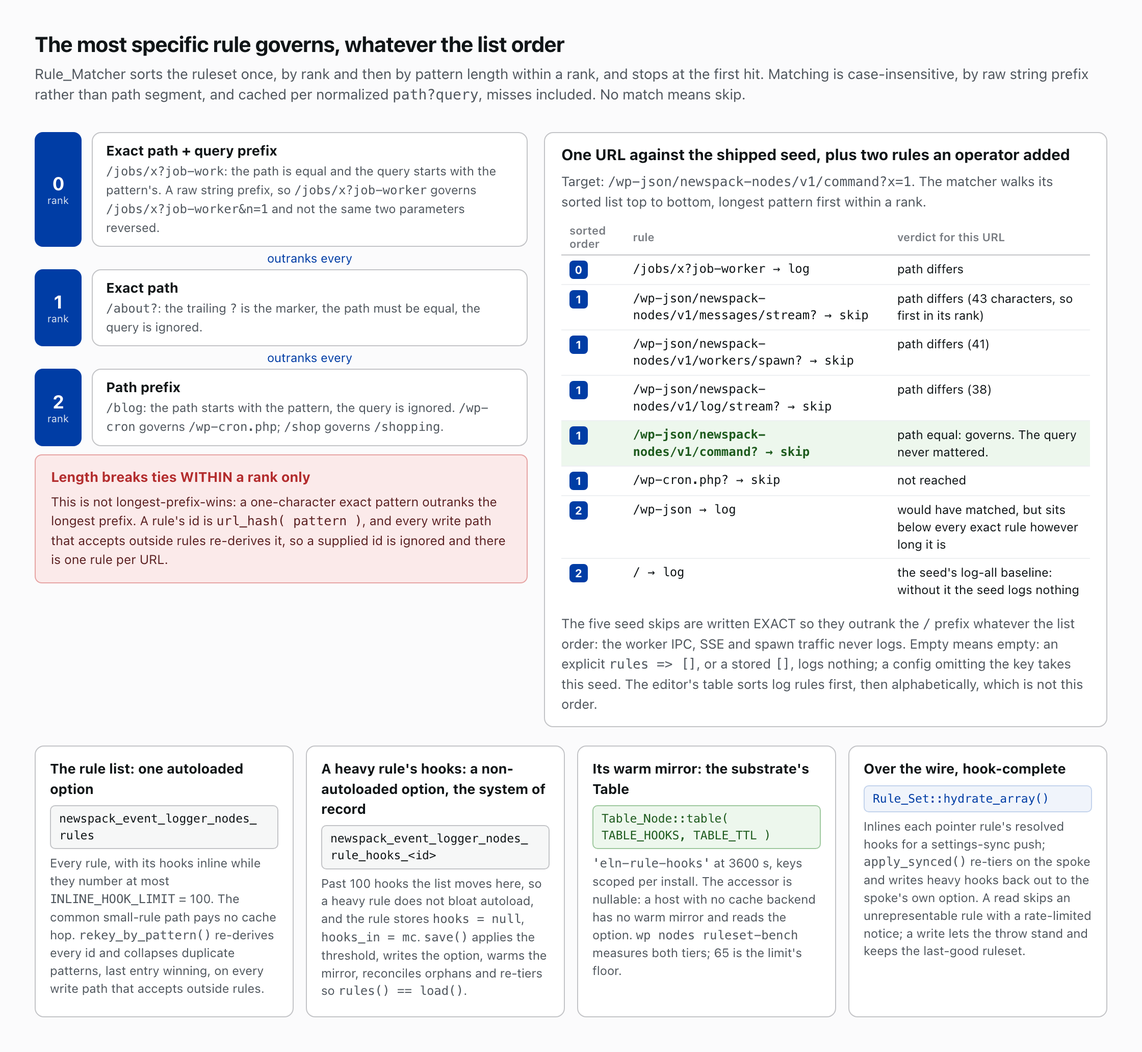
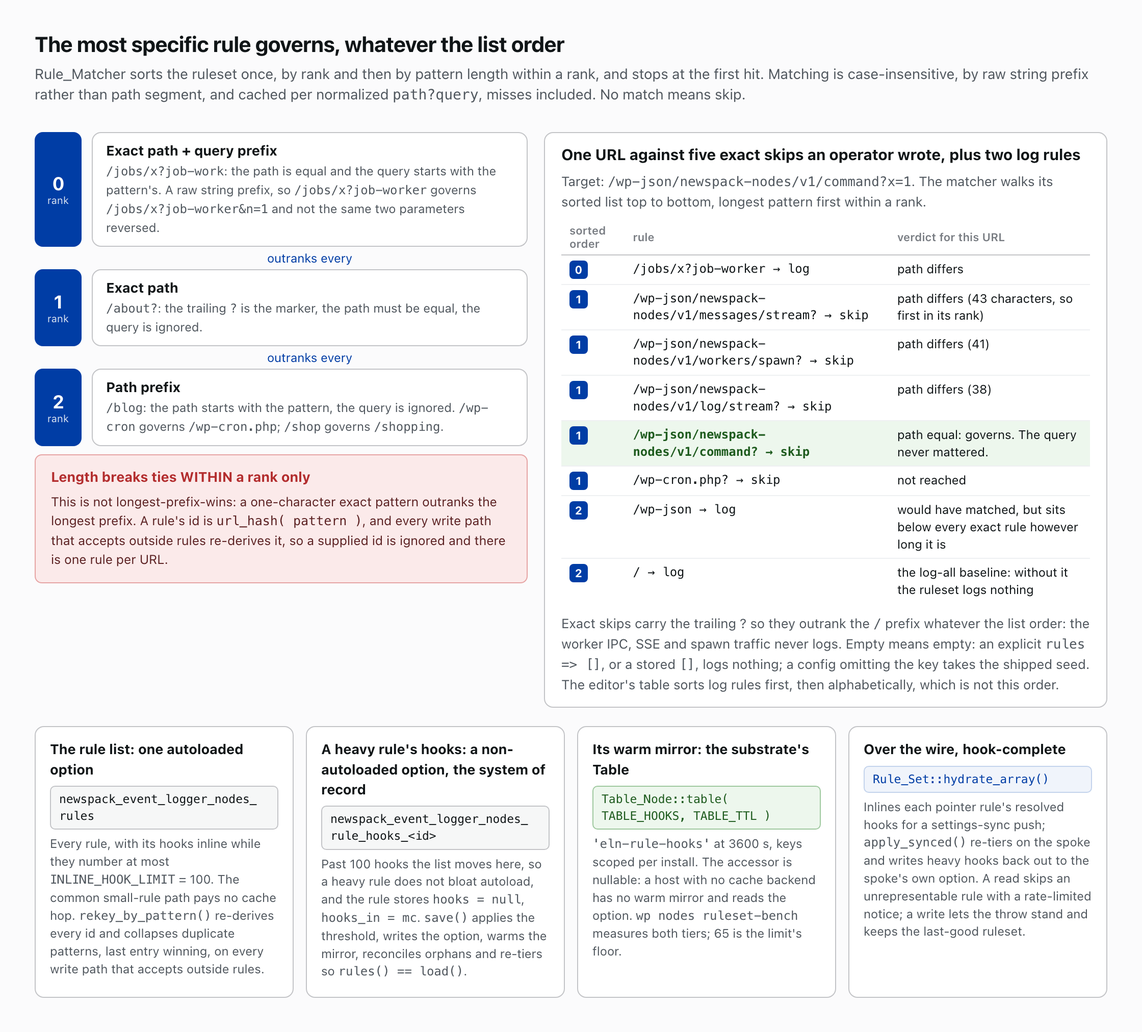
docs: the seed is the / rule alone and the allowlist is 32 keys
A worker partition that is not a number writes no entry rather than
partition 0. The rule-matching diagram walks an operator's exact skips,
not the seed, and the worker rows are described as off the URL table's
default rows and out of the global sums, which is what the code does.

diff --git a/docs/img/ag-rule-matching.html b/docs/img/ag-rule-matching.html
@@ -42,7 +42,7 @@ table.m td .r { display:inline-block; width:18px; height:18px; border-radius:4px
 
   <div class="worked">
     <div class="card" style="padding:12px 16px">
-      <h3>One URL against the shipped seed, plus two rules an operator added</h3>
+      <h3>One URL against five exact skips an operator wrote, plus two log rules</h3>
       <p style="margin:0">Target: <span class="mono">/wp-json/newspack-nodes/v1/command?x=1</span>. The matcher walks its sorted list top to bottom, longest pattern first within a rank.</p>
       <table class="m">
         <tr><th>sorted order</th><th>rule</th><th>verdict for this URL</th></tr>
@@ -53,9 +53,9 @@ table.m td .r { display:inline-block; width:18px; height:18px; border-radius:4px
         <tr class="win"><td><span class="r">1</span></td><td class="p">/wp-json/newspack-nodes/v1/command? → skip</td><td class="v">path equal: governs. The query never mattered.</td></tr>
         <tr><td><span class="r">1</span></td><td class="p">/wp-cron.php? → skip</td><td class="v">not reached</td></tr>
         <tr><td><span class="r">2</span></td><td class="p">/wp-json → log</td><td class="v">would have matched, but sits below every exact rule however long it is</td></tr>
-        <tr><td><span class="r">2</span></td><td class="p">/ → log</td><td class="v">the seed's log-all baseline: without it the seed logs nothing</td></tr>
+        <tr><td><span class="r">2</span></td><td class="p">/ → log</td><td class="v">the log-all baseline: without it the ruleset logs nothing</td></tr>
       </table>
-      <p style="margin:10px 0 0">The five seed skips are written EXACT so they outrank the <span class="mono">/</span> prefix whatever the list order: the worker IPC, SSE and spawn traffic never logs. Empty means empty: an explicit <span class="mono">rules =&gt; []</span>, or a stored <span class="mono">[]</span>, logs nothing; a config omitting the key takes this seed. The editor's table sorts log rules first, then alphabetically, which is not this order.</p>
+      <p style="margin:10px 0 0">Exact skips carry the trailing ? so they outrank the <span class="mono">/</span> prefix whatever the list order: the worker IPC, SSE and spawn traffic never logs. Empty means empty: an explicit <span class="mono">rules =&gt; []</span>, or a stored <span class="mono">[]</span>, logs nothing; a config omitting the key takes the shipped seed. The editor's table sorts log rules first, then alphabetically, which is not this order.</p>
     </div>
   </div>
 </div>

diff --git a/docs/img/2026-09-08-firehose-capture.html b/docs/img/2026-09-08-firehose-capture.html
@@ -10,7 +10,7 @@
       <p><strong>URL query string</strong> — a denylist matching the SHAPE of a parameter name: a name containing a credential token, or carrying one as a whole segment. A parity check holds both writers to the same pattern, applied in the same place.</p>
       <p><strong>Hook arguments</strong> — every key kept, every value replaced by <span class="mono">?</span> unless its key is one of 104 allowed names.</p>
       <p><strong>SQL</strong> — every quoted literal becomes <span class="mono">?</span>.</p>
-      <p>One entry per request, <span class="mono">environment_v3</span>, is a map of 34 server variables: <span class="mono red">REMOTE_ADDR</span>, <span class="mono red">HTTP_USER_AGENT</span>, <span class="mono red">HTTP_X_FORWARDED_FOR</span>, the JA3 and JA4 fingerprints.</p>
+      <p>One entry per request, <span class="mono">environment_v3</span>, is a map of 32 server variables: <span class="mono red">REMOTE_ADDR</span>, <span class="mono red">HTTP_USER_AGENT</span>, <span class="mono red">HTTP_X_FORWARDED_FOR</span>, the JA3 and JA4 fingerprints.</p>
       <p style="margin:0">Each entry is capped at 3,840 bytes so the append stays atomic.</p>
       <div class="chip mono blue" style="margin:12px 0 0;text-align:center">firehose.p0</div>
     </div>

diff --git a/includes/class-log-manager.php b/includes/class-log-manager.php
@@ -1199,10 +1199,11 @@ class Log_Manager {
 			return;
 		}
 		$this->message( self::WORKER_TYPE, [ 'm' => $worker_type ] );
-		if ( isset( $_SERVER['NEWSPACK_NODES_WORKER_PARTITION'] ) ) {
-			// phpcs:ignore WordPress.Security.ValidatedSanitizedInput.InputNotSanitized -- Sanitized on the same line.
-			$partition = \sanitize_text_field( Core::as_string( $_SERVER['NEWSPACK_NODES_WORKER_PARTITION'] ) );
-			$this->message( self::WORKER_PARTITION, [ 'm' => Core::num_int( $partition ) ] );
+		// phpcs:ignore WordPress.Security.ValidatedSanitizedInput.InputNotSanitized -- Sanitized on the same line.
+		$partition = \sanitize_text_field( Core::as_string( $_SERVER['NEWSPACK_NODES_WORKER_PARTITION'] ?? '' ) );
+		// A value that is not a number names no partition; write nothing.
+		if ( \is_numeric( $partition ) ) {
+			$this->message( self::WORKER_PARTITION, [ 'm' => (int) $partition ] );
 		}
 	}
 

diff --git a/newspack-event-logger-nodes-config.php b/newspack-event-logger-nodes-config.php
@@ -53,7 +53,8 @@ return [
 	// option again.
 	// The platform's own requests to itself — the cron loopback and the
 	// substrate's endpoints — need no skip: `Log_Manager` names each as a
-	// worker, and the URL table keeps worker traffic off its default rows.
+	// worker, and worker traffic stays off the URL table's default rows and
+	// out of the global sums.
 	// No match means skip, and empty means empty: drop the `/` rule and the
 	// site logs nothing. A `log` rule may also carry hook lists, custom and
 	// significant event names, the two auto-tune thresholds, and the query,

diff --git a/includes/class-settings-schema.php b/includes/class-settings-schema.php
@@ -63,8 +63,8 @@ class Settings_Schema {
 	 *
 	 * The platform's own requests to itself — the cron loopback and the
 	 * substrate's endpoints — need no skip: `Log_Manager` names each as a
-	 * worker, and worker traffic sits behind the dashboards' Include Workers
-	 * toggle.
+	 * worker, and worker traffic stays off the URL table's default rows and
+	 * out of the global sums.
 	 *
 	 * No match means skip, and empty means empty: drop the `/` rule and the
 	 * site logs nothing. A `log` rule may also carry hook lists, custom and

diff --git a/AGENTS.md b/AGENTS.md
@@ -227,7 +227,7 @@ Each is intentional, stated in full in [`docs/architecture-decisions.md`](docs/a
 Mistakes that have actually happened.
 
 - **`@wordpress/*` is pinned to the `wp-7.0` dist tag — never bump it to close an advisory.** Each runtime package is declared exactly, no caret, and `scripts/lint-wp-pin.mjs` fails the push when a declaration carries a range or the lock resolves it elsewhere. A caret let every lock climb to trunk while the declaration still read as the tag, and `npm ci` built against the climb. Transitive `@wordpress/*` packages still float within the ranges the family's own manifests declare; the build externalizes those too. Every declared runtime version IS its `wp-7.0` tag (`components 32.2.1`, `element 6.40.1`, `i18n 6.13.1`, `api-fetch 7.40.1`, `icons 11.7.1`). The build externalises four of the five to the `wp.*` globals, so npm's copy never ships — raising it delivers no new code, it moves the API you compile, lint and type-check against AHEAD of the one the browser is handed. A component changed or removed between majors then builds clean, passes eslint and jest, and breaks at runtime, with nothing mechanical to catch it. `@wordpress/icons` is the exception: WordPress registers no `wp-icons` handle, so the build kit's `WP_EXTERNALS` map omits it deliberately and the one icon `src/settings/settings/TagInputField.js` imports is bundled — a bump there does change what ships. Check `npm view @wordpress/<pkg> dist-tags --json` against `wp core version` before proposing any bump, and move the whole family together only when the WordPress target itself moves. A Dependabot advisory reachable only PAST the pin gets dismissed, not bumped: 2026-08-17, uuid GHSA-w5hq-g745-h8pq needed `components >= 33.1.0`, one major past `wp-7.0`, for a package absent from `build/` entirely — dismissed `not_used`. npm `overrides` cannot rescue that, because npm matches an override by package NAME anywhere in the tree: both `{uuid: …}` and the nested `{"@wordpress/components": {uuid: …}}` reach the copy the pinned component library legitimately depends on — `uuid@^9.0.1`, the one uuid in this lock — and swap it out from under it.
-- **There is no global logging or auto-tune option; logging is per-URL-rule.** No config key named `log_urls`, `skip_urls`, `log_events`, `custom_events`, `significant_events`, `auto_disable_threshold` or `auto_protect_time_threshold` is declared or read: the last four name per-rule fields of `Rule`, and the first three have no counterpart at all. Each rule is a URL pattern (`/prefix` or exact `/x?`) with a `log`/`skip` action and, for `log` rules, its own hooks, custom events, significant events, two auto-tune thresholds and five diagnostic knobs — `log_http` and `log_plugin_loads` (default on), `log_queries`, `trace_hooks` and `trace_callers` (all default off). Matching ranks query-bearing patterns (`/jobs/x?job-work`) above ALL exact patterns, which rank above ALL prefixes — length only breaks ties within a rank, so this is NOT longest-prefix-wins. Case-insensitive; **no match means skip, and empty means empty — there is no implicit log-all baseline.** Declare a `/` log rule to log everything, as the shipped seed does alongside five exact skips: the substrate's `command`, `log/stream`, `messages/stream` and `workers/spawn` routes, and `/wp-cron.php`. Rule id = the pattern's `Log_Manager::url_hash()`. Discovery only *stages* what spokes report, into the non-autoloaded `discovered_hooks` and `discovered_events` options the editor's pickers read; the editor is the only rule writer.
+- **There is no global logging or auto-tune option; logging is per-URL-rule.** No config key named `log_urls`, `skip_urls`, `log_events`, `custom_events`, `significant_events`, `auto_disable_threshold` or `auto_protect_time_threshold` is declared or read: the last four name per-rule fields of `Rule`, and the first three have no counterpart at all. Each rule is a URL pattern (`/prefix` or exact `/x?`) with a `log`/`skip` action and, for `log` rules, its own hooks, custom events, significant events, two auto-tune thresholds and five diagnostic knobs — `log_http` and `log_plugin_loads` (default on), `log_queries`, `trace_hooks` and `trace_callers` (all default off). Matching ranks query-bearing patterns (`/jobs/x?job-work`) above ALL exact patterns, which rank above ALL prefixes — length only breaks ties within a rank, so this is NOT longest-prefix-wins. Case-insensitive; **no match means skip, and empty means empty — there is no implicit log-all baseline.** Declare a `/` log rule to log everything, as the shipped seed does which is the whole seed: the substrate's `command`, `log/stream`, `messages/stream` and `workers/spawn` routes and `/wp-cron.php` need no skip, because `Log_Manager` names each as a worker. Rule id = the pattern's `Log_Manager::url_hash()`. Discovery only *stages* what spokes report, into the non-autoloaded `discovered_hooks` and `discovered_events` options the editor's pickers read; the editor is the only rule writer.
 - **There is no operator hub toggle: no `enable_workers`, no `enable_aggregator`.** `tests/unit/RetiredConfigKeysTest.php` guards both names against reintroduction. Hub-mode derives from whether `aggregator` is in the substrate's `topologies` list. Settings fan-out is structurally ungated: without `hub-control` active and per-spoke `HTTP_Out` nodes wired, a recorded settings event is tailed and dropped.
 - **Two bounds, and BOTH fold.** Both are `Request_Builder_Node` node arguments declared in its `node_schema()` and parsed by `parse_schema_args()`, not config keys — `make_node Request_Builder request-builder <bucket_size> <num_buckets> <entry_budget> <max_entries_per_request>`, and the shipped topology passes only the first two. `entry_budget` constrains the SUM of entries across everything in flight (what a staging site ran out of) and folds the largest envelope when crossed; `max_entries_per_request` constrains ONE envelope and folds that one, a faster trigger for a single runaway than waiting for the next pressure check. A cap that merely stops appending and sets a `truncated` flag nothing surfaces loses every entry past it — never build that. A folded record ships `flame` + `folded` plus its kept head and tail rejoined around an `entries (aggregated)` marker; `Flame_Builder_Node` and the detail view read the folded and the unfolded shape alike, because both sit on disk.
 - **PIPE_BUF (4096 bytes) for firehose writes.** `Log_Manager::message()` builds the whole entry — `n`, `k`, the caller's data and `ts` — and enforces `MAX_DATA_SIZE = 3840` on THAT encoding, which is the headroom that keeps a lock-free append atomic. The three stamped keys are why the ENTRY is what gets fitted rather than `$data`: a payload sitting exactly at the cap on its own goes over budget the moment `n`, `k` and `ts` land, and the gap left under PIPE_BUF is then the Message envelope's alone. Over the cap, `fit_data()` trims a string `m` progressively — from the cap down 10% a step, re-encoding each time, because JSON escaping expands bytes — and drops `m` outright when trimming cannot fit it or when it is an array. The entry is marked `truncated => true`, and every other key survives, `l` and `caller` included, so the flame still merges the span under its `l` label and the request record keeps its caller summary. What opens a span is the category `k` alone — `Flame_Tree::PATTERN_START` and `Request_Builder_Node`'s `' (start)'` suffix test both read it — so **the category is NOT renamed**: a `" (truncated)"` suffix breaks both tests, the span never opens and its `(complete)` orphans. The floor case, where the other keys alone exceed the cap, keeps `n`, `k`, `ts` and `truncated` and carries a 1000-byte slice of the oversized encoding as `m` — strip those three and no reader can place the line. Nothing is chunked and nothing is logged to `error_log` — the entry says so itself. A firehose entry has no escape, because every request process appends that log with no lock: shape a large value at the producer or split it across entries. A partition with one writer lifts its cap to 32 MiB, by a held lock (`allow_large_writes()`, which is how `\Newspack_Nodes\Job_Intake::queue()` admits a large job) or by the `void_warranty` assertion the `requests` and `flames` partitions carry.

diff --git a/.claude/skills/event-logger-nodes-review/SKILL.md b/.claude/skills/event-logger-nodes-review/SKILL.md
@@ -32,7 +32,7 @@ A new producer of potentially-large jobs routed through `Log_Manager` is broken:
 
 | Value | What must match |
 |---|---|
-| `ENV_ALLOWLIST` | 34 `$_SERVER` keys, membership AND order |
+| `ENV_ALLOWLIST` | 32 `$_SERVER` keys, membership AND order |
 | `ENV_VALUE_MAX` | 256 bytes per value |
 | The elision marker `log_environment()` appends to a capped value | U+2026 on both sides |
 | `URL_REDACT_PATTERN` | 21 redacted query parameters |
@@ -173,7 +173,7 @@ Logging is governed per URL by a **ruleset**: an ordered list of `Rule`s, each a
 - **Matching is by SPECIFICITY, not longest prefix.** Query-bearing patterns (`/jobs/x?job-work`) outrank ALL exact patterns (`/about?`), which outrank ALL prefixes (`/blog`); length only breaks ties within a rank. Comparison is case-insensitive, and a prefix matches by string rather than path segment, so `/wp-cron` governs `/wp-cron.php`. A diff reordering the list to change an outcome misreads the matcher — list order never sways it.
 - **Every write goes through `Rule_Set::save()`** — never a raw `update_option` on `newspack_event_logger_nodes_rules`. `save()` maintains the inline↔pointer hook tiering (`INLINE_HOOK_LIMIT` = 100, the crossover `wp nodes ruleset-bench` measures; a heavier list tiers to a non-autoloaded per-rule option mirrored into the substrate `Table`) and the orphan reconcile. Bypassing it corrupts the two-tier storage. `Rule_Set::reset()` is the one path that does not save: it DELETES the option so the schema seed governs again, reconciles the orphans and signals the worker reloads itself.
 - **A rule's id is `Rule_Set::id_for( $pattern )`**, the pattern's `Log_Manager::url_hash()` — one id per pattern, and a client-supplied id is ignored. Positional id minting (`generate_rule_id`, `gen_id`) breaks that, and so does letting two rules share one pattern.
-- **Empty means empty.** There is no implicit `/` log-all baseline; an empty or absent ruleset logs nothing. A diff synthesizing a minimal `/` rule makes that impossible to express. A deployment wanting log-all declares a `/` log rule explicitly, as `Settings_Schema`'s seed does alongside five exact skips: the substrate's `command`, `log/stream`, `messages/stream` and `workers/spawn` routes, and `/wp-cron.php`.
+- **Empty means empty.** There is no implicit `/` log-all baseline; an empty or absent ruleset logs nothing. A diff synthesizing a minimal `/` rule makes that impossible to express. A deployment wanting log-all declares a `/` log rule explicitly, as `Settings_Schema`'s seed does which is the whole seed: the substrate's `command`, `log/stream`, `messages/stream` and `workers/spawn` routes and `/wp-cron.php` need no skip, because `Log_Manager` names each as a worker.
 - **Seven names are retired as globals, and `RetiredConfigKeysTest` guards all seven.** Declaring `log_urls`, `skip_urls`, `log_events`, `custom_events`, `significant_events`, `auto_disable_threshold` or `auto_protect_time_threshold` as a `Settings_Schema` Field or an option row puts one answer where the ruleset gives a URL its own. Four are `Rule` properties: `custom_events`, `significant_events`, `auto_disable_threshold` and `auto_protect_time_threshold`. The other three have no per-rule counterpart either — the pattern replaces `log_urls` and `skip_urls`, and the rule's `hooks` list replaces `log_events`. (`enable_logging`, `log_memory` and `flush_every_line` stay global, and so does `hook_start_priority`; `allowed_users` is the substrate's.)
 - **Discovery stages hooks, it does not write rules.** `Discovery_Collector_Node` stages spoke-reported names into the non-autoloaded `discovered_hooks` and `discovered_events` options, surfaced in the editor's picker; it never writes a rule. Three callers do, and every one goes through `save()`: the `rules` `save` / `upsert` / `delete` verbs, `Auto_Tuner_Node`, and `Rule_Set::apply_synced()` on the settings-sync receive path. A diff having discovery union-merge into a `/` rule and save the ruleset breaks "empty means empty".
 - **`upsert` drops by id OR by pattern, then appends under the pattern-derived id.** `Rules_CI_Node::upsert` removes the entry whose `id` matches the incoming rule's — an edit that renames the pattern carries its OLD id, so the stale entry goes with it — and the entry whose pattern matches, which is the id-less "Log this URL" add. Collapsing that to pattern-only orphans every renamed rule.

diff --git a/docs/architecture-guide.md b/docs/architecture-guide.md
@@ -180,9 +180,9 @@ The constructor throws when the pattern is empty, and when `hooks` and `hooks_in
 
 **`Rule_Matcher`** ([`includes/class-rule-matcher.php`](../includes/class-rule-matcher.php)) picks the governing rule by specificity, not by list order, and **`Rule_Set`** ([`includes/class-rule-set.php`](../includes/class-rule-set.php)) is the durable store.
 
-![Rule matching and storage: three ranks, exact path plus query prefix over exact path over path prefix, with length breaking ties only within a rank; a worked walk of /wp-json/newspack-nodes/v1/command?x=1 down the sorted seed ruleset, where the exact skip governs and the /wp-json and / log rules sit below every exact rule; and the four storage tiers, the autoloaded rule list, a heavy rule's non-autoloaded hooks option past INLINE_HOOK_LIMIT 100, its Table mirror eln-rule-hooks at TTL 3600, and hydrate_array() for the wire.](img/ag-rule-matching.png)
+![Rule matching and storage: three ranks, exact path plus query prefix over exact path over path prefix, with length breaking ties only within a rank; a worked walk of /wp-json/newspack-nodes/v1/command?x=1 down a sorted ruleset of exact skips an operator wrote, where the exact skip governs and the /wp-json and / log rules sit below every exact rule; and the four storage tiers, the autoloaded rule list, a heavy rule's non-autoloaded hooks option past INLINE_HOOK_LIMIT 100, its Table mirror eln-rule-hooks at TTL 3600, and hydrate_array() for the wire.](img/ag-rule-matching.png)
 
-Patterns are written as site paths, so a caller holding an absolute URL passes its path. The shipped default, [`Settings_Schema`](../includes/class-settings-schema.php)'s `rules`, which `Rule_Set::seed_from_config()` applies until the editor writes the option, is the `/` LOG rule plus the five EXACT skips for `/wp-json/newspack-nodes/v1/{command,log/stream,messages/stream,workers/spawn}` and `/wp-cron.php`.
+Patterns are written as site paths, so a caller holding an absolute URL passes its path. The shipped default, [`Settings_Schema`](../includes/class-settings-schema.php)'s `rules`, which `Rule_Set::seed_from_config()` applies until the editor writes the option, is the `/` LOG rule alone; `/wp-json/newspack-nodes/v1/{command,log/stream,messages/stream,workers/spawn}` and `/wp-cron.php` need no skip, because `Log_Manager` names each as a worker.
 
 **Loading.** When the option is absent, `Rule_Set::load()` builds the ruleset through `seed_from_config()`, without persisting it, until the editor first writes the option. The seed reads `Config::load_config_defaults()`, the layers beneath the option: `Settings_Schema`'s seed, then the shipped config file and `LOCAL_NEWSPACK_NODES_CONF`. A config that omits the key therefore takes the schema's seed. Empty means empty: an explicit `rules => []` in the config, like a stored `[]`, yields a zero-rule set, which logs nothing. A CORRUPT option, one that is not an array, takes the same seed as an absent one: `load()` reports it to stderr as `Newspack ELN: rules option holds type <type>, not an array; seeding from the config file and schema default.` and seeds from those layers, never from the corrupt value the option overlay would hand back. Both read paths skip an unrepresentable rule with a rate-limited notice rather than throwing — one hand-edited option must not fatal every request that resolves a rule — while a WRITE caller lets the throw stand and rejects the whole push, leaving the last-good ruleset in place.
 

diff --git a/docs/security-model.md b/docs/security-model.md
@@ -48,7 +48,7 @@ The request id groups a request's firehose lines, and no request header is ever 
 
 **Code:** [`includes/app/class-ask-assembler.php`](../includes/app/class-ask-assembler.php): [`entry_shape()`](../includes/app/class-ask-assembler.php#L373), [`for_request()`](../includes/app/class-ask-assembler.php#L82), [`ENV_ALLOWLIST`](../includes/app/class-ask-assembler.php#L73); [`includes/app/class-performance-ci-node.php`](../includes/app/class-performance-ci-node.php): `ask_request()`; [`includes/app/class-mcp-controller.php`](../includes/app/class-mcp-controller.php): [`INSTRUCTIONS`](../includes/app/class-mcp-controller.php#L79), [`fence()`](../includes/app/class-mcp-controller.php#L309); [`src/overview/askBrief.js`](../src/overview/askBrief.js): [`siteData()`](../src/overview/askBrief.js#L43), the `entry:` case ([305](../src/overview/askBrief.js#L305)) and [`askClaudeUrl()`](../src/overview/askBrief.js#L67).
 
-An Ask brief summarizes one request, URL or log entry for pasting into an AI assistant. Its `env` field passes a six-key allowlist (`method`, `request_method`, `status_code`, `worker_type`, `partition`, `server_name`). Its `entries` field holds the same line: `for_request()` copies up to `MAX_ENTRIES` (60) entries through `entry_shape()`, and the `environment_v3` entry — the curated map of 34 server variables, the visitor's headers among them — ships with its category and no body, so the user agent, the referer, the forwarded-for chain and the JA3 and JA4 TLS fingerprints never reach a brief. Every other entry's `m` is copied verbatim. This bounds the brief alone: `dump_request` ships the record whole, inside the MCP fence. The brief leaves by three doors — the `performance_ask` MCP tool, a single-entry brief rendered in full, and the "Ask Claude" query string — and at each of them the values a log record wrote leave inside a `<site-data>` fence ([decision 25](architecture-decisions.md#decision-25-read-tools-and-tune-scoped-write-tools-share-one-mcp-session-and-every-tool-result-is-fenced)). [The environment allowlist](architecture-guide.md#the-environment-allowlist) covers what the writer admits into `environment_v3`.
+An Ask brief summarizes one request, URL or log entry for pasting into an AI assistant. Its `env` field passes a six-key allowlist (`method`, `request_method`, `status_code`, `worker_type`, `partition`, `server_name`). Its `entries` field holds the same line: `for_request()` copies up to `MAX_ENTRIES` (60) entries through `entry_shape()`, and the `environment_v3` entry — the curated map of 32 server variables, the visitor's headers among them — ships with its category and no body, so the user agent, the referer, the forwarded-for chain and the JA3 and JA4 TLS fingerprints never reach a brief. Every other entry's `m` is copied verbatim. This bounds the brief alone: `dump_request` ships the record whole, inside the MCP fence. The brief leaves by three doors — the `performance_ask` MCP tool, a single-entry brief rendered in full, and the "Ask Claude" query string — and at each of them the values a log record wrote leave inside a `<site-data>` fence ([decision 25](architecture-decisions.md#decision-25-read-tools-and-tune-scoped-write-tools-share-one-mcp-session-and-every-tool-result-is-fenced)). [The environment allowlist](architecture-guide.md#the-environment-allowlist) covers what the writer admits into `environment_v3`.
 
 ## The remote-job rewrite
 

diff --git a/.claude/skills/event-logger-nodes-debugging/SKILL.md b/.claude/skills/event-logger-nodes-debugging/SKILL.md
@@ -259,7 +259,7 @@ If a hub is missing entries from a spoke, read that `remote:` snapshot — but r
 
 **The URL modal's "The request index scan stopped early" banner will not clear.** `UrlDetailMergeNode` treats `scan_stopped_early` as a property of the accumulated request list rather than of the latest reply: `_merge()` forces the flag back ON whenever the retained payload carries it and never forces it off, because a walk that ran out of budget left rows missing from the accumulation and a later complete walk does not put them back. Only the `clear` control drops the note, with the list it described, and `usePerformanceGraph` sends one when the modal closes and when the server scope changes — so reopening the modal is the fix. The flag `docs/API.md` describes is the server's, per single `dump_url` call, and says nothing about this accumulation.
 
-**`reqgrep --recent` shows nothing but the firehose is being written.** Three possibilities. First, `Log_Manager` never started: `enable_logging` is off, or the process is root (`posix_geteuid() === 0` returns before the matcher is even built, because root-owned segment files the web user could never append to are worse than no logs). Second, the firehose path doesn't match — check `Newspack_Event_Logger_Nodes\Config::get_logs_directory()`. Third, no ruleset rule matches the URL: `Log_Manager` resolves one governing rule per request through `Rule_Matcher`, and no match — or a `skip` rule — writes nothing. **Empty means empty**: an absent ruleset logs nothing, because there is no implicit `/` log-all baseline. Read it through the `rules` CI `dump` verb or `wp option get newspack_event_logger_nodes_rules`. The shipped default seeds a `/` log rule plus exact skips for the substrate's own `command`, `log/stream`, `messages/stream` and `workers/spawn` endpoints and for `/wp-cron.php`.
+**`reqgrep --recent` shows nothing but the firehose is being written.** Three possibilities. First, `Log_Manager` never started: `enable_logging` is off, or the process is root (`posix_geteuid() === 0` returns before the matcher is even built, because root-owned segment files the web user could never append to are worse than no logs). Second, the firehose path doesn't match — check `Newspack_Event_Logger_Nodes\Config::get_logs_directory()`. Third, no ruleset rule matches the URL: `Log_Manager` resolves one governing rule per request through `Rule_Matcher`, and no match — or a `skip` rule — writes nothing. **Empty means empty**: an absent ruleset logs nothing, because there is no implicit `/` log-all baseline. Read it through the `rules` CI `dump` verb or `wp option get newspack_event_logger_nodes_rules`. The shipped default seeds a `/` log rule alone; the substrate's own endpoints and `/wp-cron.php` log as worker traffic.
 
 **The Error Log is empty while the substrate is printing warnings.** `Diagnostics_Bridge` listens on the substrate's `newspack_nodes/stderr` seam and logs each line to the ACTIVE request as a `stderr` entry, which `Request_Builder_Node` routes to its errors target. With no started request logger — an unlogged URL, a CLI process, a root process — the line is dropped here and only the substrate's own `error_log()` keeps it. Fleet alerts never take this path: the substrate journals those into `alerts.p0` itself.
 

diff --git a/README.md b/README.md
@@ -63,7 +63,6 @@ return [
     'enable_logging' => true,
     // Per-URL logging ruleset seed (the editor owns it once saved).
     'rules'          => [
-        [ 'pattern' => '/wp-cron.php?', 'action' => 'skip' ],
         [ 'pattern' => '/', 'action' => 'log' ],
     ],
 ];
@@ -79,7 +78,7 @@ Hub-mode is derived, never toggled: an active [`aggregator`](topologies/aggregat
 
 Which URLs and hooks get logged is a per-URL ruleset, not a global setting. Each rule pairs a URL pattern with a `log` or `skip` action and, for a `log` rule, its own hooks, custom events, significant events, auto-tune thresholds and per-rule diagnostics (`log_queries`, `log_http`, `log_plugin_loads`, `trace_hooks`, `trace_callers`).
 
-Matching is most-specific-first: a query-bearing pattern (`/jobs/x?job-work`) outranks an exact path (`/about?`), which outranks a prefix (`/blog`). Length breaks ties only *within* a rank, so this is not longest-prefix-wins, and list order never decides the outcome. Comparison is case-insensitive. No rule matched means skip — there is no implicit log-all baseline, so a site that logs everything declares a `/` log rule, which is the whole shipped seed; `/wp-cron.php` and the substrate's own endpoints need no skip, because the logger names each as a worker and the dashboards keep worker traffic behind their Include Workers toggle.
+Matching is most-specific-first: a query-bearing pattern (`/jobs/x?job-work`) outranks an exact path (`/about?`), which outranks a prefix (`/blog`). Length breaks ties only *within* a rank, so this is not longest-prefix-wins, and list order never decides the outcome. Comparison is case-insensitive. No rule matched means skip — there is no implicit log-all baseline, so a site that logs everything declares a `/` log rule, which is the whole shipped seed; `/wp-cron.php` and the substrate's own endpoints need no skip, because the logger names each as a worker, and worker traffic stays off the URL table's default rows and out of the global sums.
 
 A rule's id is its pattern's `Log_Manager::url_hash()`, so the pattern is the identity and one URL can never carry two differently-configured rules. Rules are edited in the "Logging Rules" editor on the settings page, backed by the [`rules`](docs/API.md#rules--per-url-logging-ruleset-crud) service CI, and seeded from the config file's `rules` key until that editor first writes the option. The `↺` beside "+ Add Rule" resets the whole section: behind a confirmation it discards the stored ruleset outright, so the config file's seed governs again. Where every other setting marks its field and waits for a Save, this one applies at once, because the editor writes through the CI and has no form submission to defer a mark to. The classes are [`Rule`](includes/class-rule.php), [`Rule_Set`](includes/class-rule-set.php) and [`Rule_Matcher`](includes/class-rule-matcher.php).
 

diff --git a/docs/the-event-logger.md b/docs/the-event-logger.md
@@ -6,7 +6,7 @@ Newspack Event Logger Nodes is an application on the runtime: it records what a 
 
 The writer sits on the critical path of the request it measures. [Log_Manager](../includes/class-log-manager.php) appends one line per event to the firehose, an append-only topic, and forgets it: it reads nothing, aggregates nothing and waits on no other process.
 
-Four gates stand before the append. `enable_logging` is the master switch. The writer refuses to run as root. A rule pairs a URL pattern with a verdict, log or skip, and specificity outranks list order: a pattern with a query beats an exact path, which beats a prefix, and length breaks ties only within a rank. No match means skip, so the seed ruleset is one log rule on `/` beside five exact skips for cron and the runtime's own endpoints. A rule's id is the hash of its pattern, so one URL never carries two rules.
+Four gates stand before the append. `enable_logging` is the master switch. The writer refuses to run as root. A rule pairs a URL pattern with a verdict, log or skip, and specificity outranks list order: a pattern with a query beats an exact path, which beats a prefix, and length breaks ties only within a rank. No match means skip, so the seed ruleset is one log rule on `/`; cron and the runtime's own endpoints log as worker traffic rather than being skipped. A rule's id is the hash of its pattern, so one URL never carries two rules.
 
 The fourth gate is what the log rule binds: the hooks to time, the custom events to log and the events to profile per callback. Outbound HTTP is timed by default, one span per remote call, and a rule can turn it off. SQL is timed only when a rule asks, because the closing hook fires only under `SAVEQUERIES` and each query costs two entries. Where nothing is bound, the Performance dashboard's findings report insufficient instrumentation rather than guess.
 
